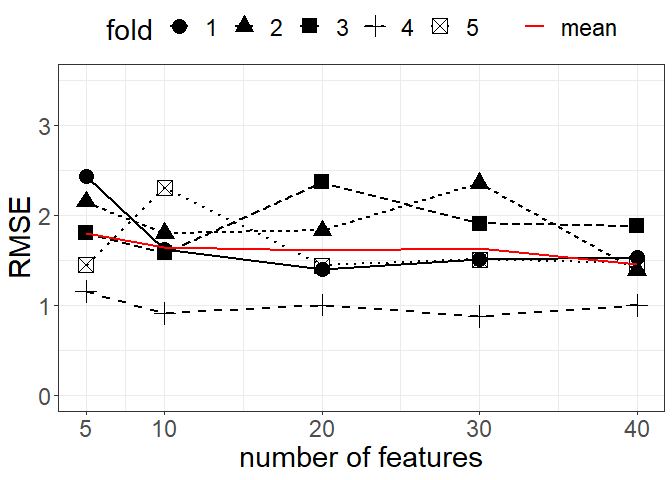
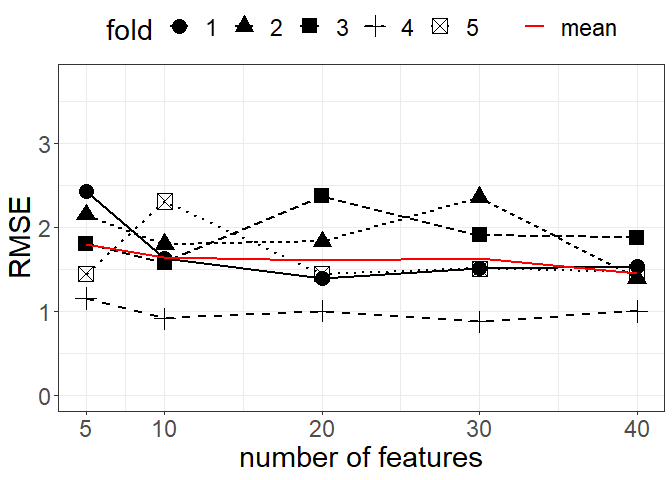
adapted plot range

diff --git a/evaluations/Experiment_1.md b/evaluations/Experiment_1.md
@@ -187,7 +187,7 @@ plot_performance <- function(fs_ = "UBayFS", type_ = "test", metric_ = "RMSE", m
                   y = mean,
                   color = "mean"),
               linewidth = 1) +
-    ylim(0, 3.5)+
+    ylim(0, 3.75)+
     ylab("RMSE") +
     xlab("number of features") + 
     scale_x_continuous(breaks = max_s_opts) +
